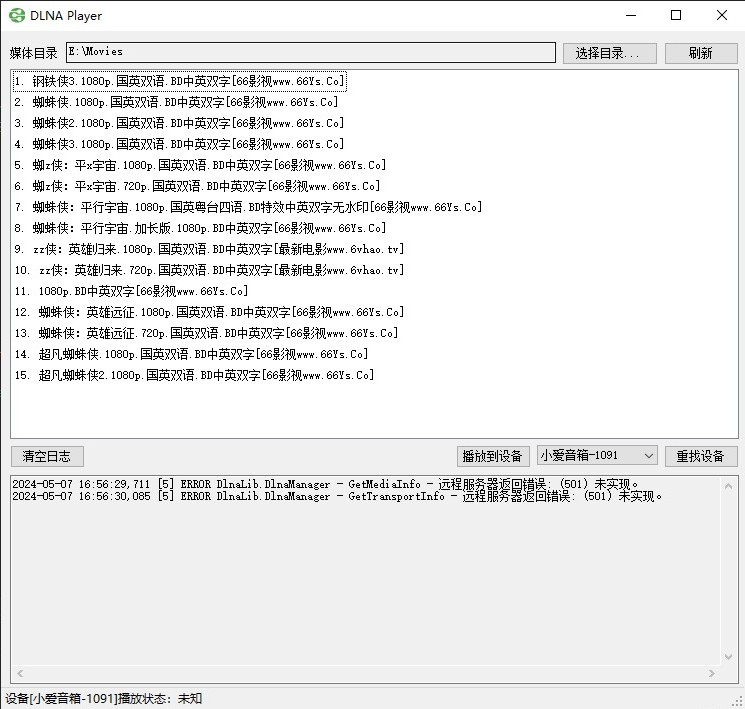
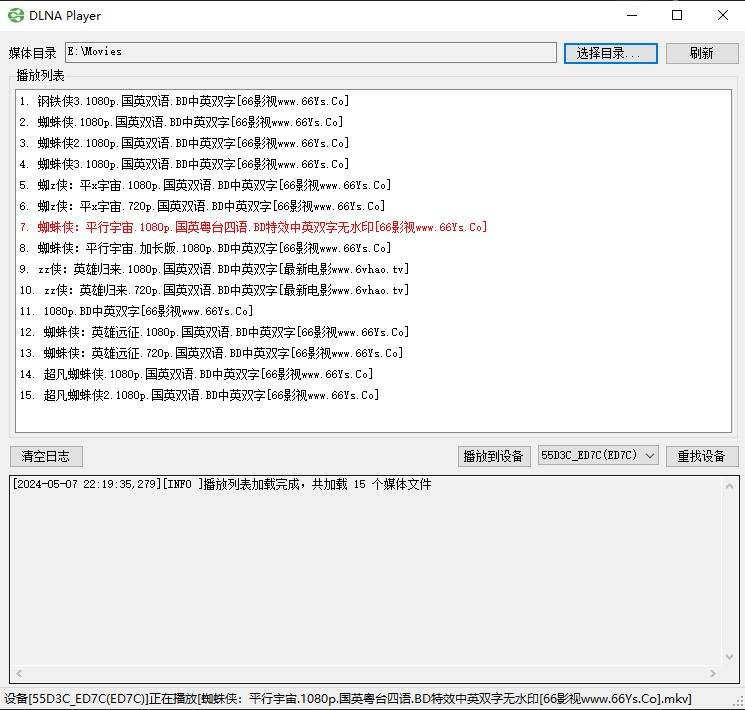
重新截取了主界面截图、优化了正在播放项前景色显示避免界面闪烁

diff --git a/DlnaPlayerApp/frmMain.Methods.cs b/DlnaPlayerApp/frmMain.Methods.cs
@@ -92,6 +92,11 @@ namespace DlnaPlayerApp
 
 		private void OnPlayNext(object sender, EventArgs e)
 		{
+			if (InvokeRequired)
+			{
+				BeginInvoke(new Action(()=>OnPlayNext(sender, e)));
+				return;
+			}
 			if(lvPlaylist.Items.Count <= 0)
 			{
 				logger.Warn("播放媒体文件失败，播放列表为空");
@@ -117,6 +122,8 @@ namespace DlnaPlayerApp
 			playItem.Selected = true;
 			playItem.Focused = true;
 			lvPlaylist.Select();
+
+			ResetListViewItemForeColor();
 		}
 
 		private void OnPlayMediaInfo(object sender, PlayMediaInfoEventArgs e)
@@ -126,7 +133,7 @@ namespace DlnaPlayerApp
 				BeginInvoke(new Action(() => OnPlayMediaInfo(sender, e)));
 				return;
 			}
-			ResetListViewItemForeColor();
+			//ResetListViewItemForeColor();
 
 			if (e.CurrentMediaInfo == null)
 			{
@@ -165,7 +172,10 @@ namespace DlnaPlayerApp
 		{
 			foreach (ListViewItem item in lvPlaylist.Items)
 			{
-				item.ForeColor = Color.Black;
+				if (item.ForeColor != Color.Black)
+				{
+					item.ForeColor = Color.Black;
+				}
 			}
 		}
 
